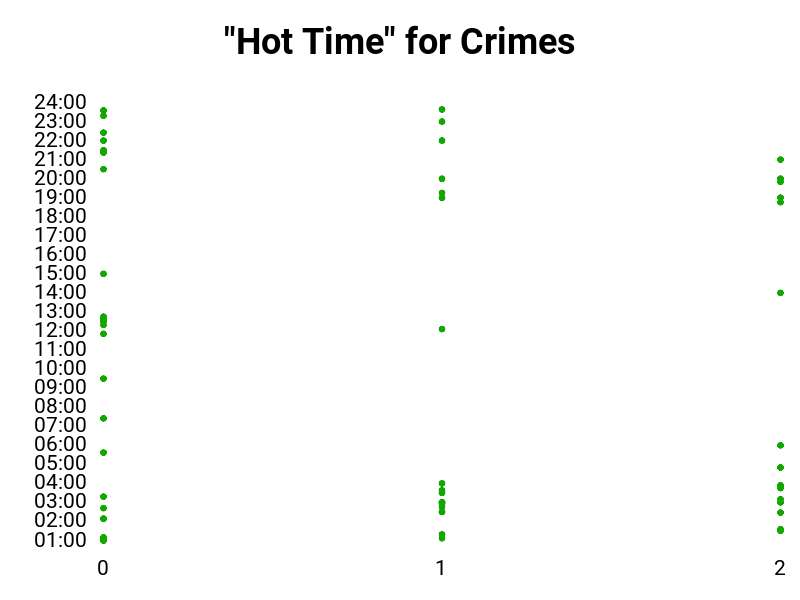
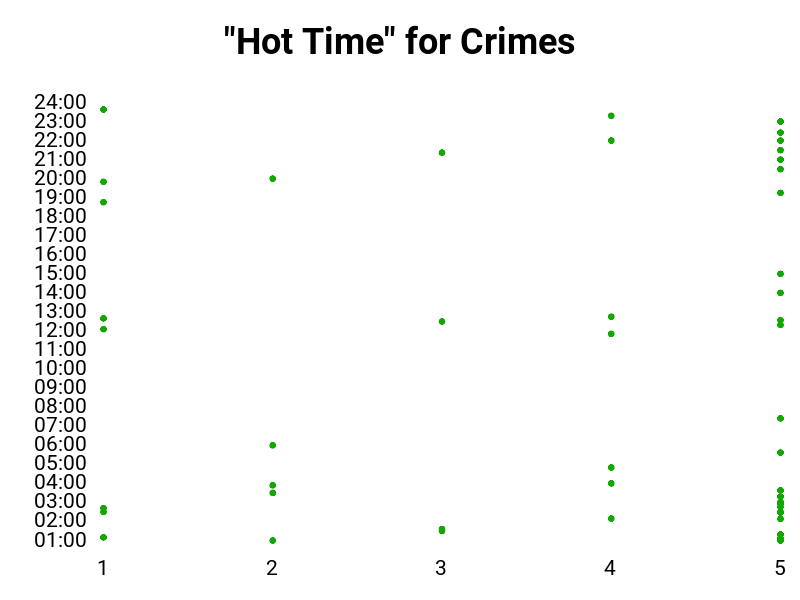
added a count for number of crimes each year

diff --git a/scraper.rb b/scraper.rb
@@ -1,9 +1,17 @@
+require_relative 'notice'
+
 class Scraper
-  attr_reader :number_of_pages, :page_array
+  attr_reader :number_of_pages, :page_array, :all_notices, :years, :crime_per_year
 
   def initialize
     @number_of_pages = 0
+    # keeps track of all page object
     @page_array = []
+    # keeps track of all notice object
+    @all_notices = []
+    # range of years for the data
+    @years = []
+    @crime_per_year = {}
   end
 
   # counts the number of pages
@@ -18,7 +26,33 @@ class Scraper
   def create_link(first_page_link)
     (1..@number_of_pages).each do |i|
       # mechanize each page
-      @page_array << Page.new("#{first_page_link}&page=#{i}")
+      @page_array << Page.new("#{first_page_link}&page=#{i}", @all_notices)
+    end
+  end
+
+  # calls other methods to retrieve all data
+  def collect_data
+    get_all_years
+    get_crimes_per_year
+  end
+
+  # gets all the years that has crime recorded
+  def get_all_years
+    all_notices.each do |notice|
+      # does not push the same year or nil
+      @years << notice.year if !notice.year.nil? & !(@years.include? notice.year)
+    end
+    @years.sort!
+  end
+
+  # counts the number of crimes per year
+  def get_crimes_per_year
+    @years.each do |year|
+      @crime_per_year[year] = 0
+    end
+    all_notices.each do |notice|
+      value = @crime_per_year[notice.year].to_i
+      @crime_per_year[notice.year] = value + 1 if @crime_per_year.key? notice.year
     end
   end
 end

diff --git a/notice.rb b/notice.rb
@@ -11,26 +11,41 @@ class Notice
       @description = i.text if i.text.include?('a.m.') || i.text.include?('p.m.')
     end
 
-    @date = @description[%r{\d+/\d+/\d+}]
+    retrieve_date
     retrieve_year
-    @time = @description[/\d+(:\d+)* (a|p)\.m\./]
+    retrieve_time
     @location = @description.scan(/([0-9A-Za-z]+) (Avenue|St |Ave|Street|Court|Square|Place)/)
-   
 
     # puts '*****'
-    # puts @date
-    # puts @time
+    # puts "#{@date} --- #{@time}"
     # puts @location[0]
     # puts @location[1]
     # puts '*****'
   end
 
+  # retrieve the date of crime
+  def retrieve_date
+    @date = @description[%r{\d+/\d+/\d+}]
+    # checks that the date is not empty
+    @date = nil if @date.to_s.strip.empty?
+  end
+
   # retrieve year from the date
   def retrieve_year
-    temp = @date.to_s.split '/'
-    # @year = 0 if temp[2] is blank/no date
-    @year = temp[2].to_i
-    # prevent addition of 2000 if 0
-    @year += 2000 if !@year.zero? & (@year < 2000)
+    if @date.nil?
+      @year = nil
+    else
+      temp = @date.to_s.split '/'
+      # @year = 0 if temp[2] is blank/no date
+      @year = temp[2].to_i
+      # prevent addition of 2000 if 0
+      @year += 2000 if !@year.zero? & (@year < 2000)
+    end
+  end
+
+  # retrieve the time of crime
+  def retrieve_time
+    @time = @description[/\d+(:\d+)* (a|p)\.m\./]
+    @time = nil if @time.to_s.strip.empty?
   end
 end

diff --git a/graph.rb b/graph.rb
@@ -9,9 +9,9 @@ class Graph
     @y = []
   end
 
-  def create_scatterplot(page_array, graph)
+  def create_scatterplot(graph, scrape)
     @scatter_graph = Gruff::Scatter.new
-    get_data_points(page_array, graph)
+    get_data_points(graph, scrape)
     set_graph_properties
     @scatter_graph.data('crime time', @x, @y)
   end
@@ -84,18 +84,21 @@ class Graph
   end
 
   # sets the x & y for the graph
-  def get_data_points(page_array, graph)
-    @year = []
-    page_array.each do |page|
-      page.notices.each do |notice|
-        # checks if time is string with all white spaces
-        @y << graph.set_time(notice.time) unless notice.time.to_s.strip.empty?
-        # does not add the same year
-        @year << notice.year if (notice.year != 0) & !(@year.include? notice.year)
-      end
+  def get_data_points(graph, scrape)
+    scrape.all_notices.each do |notice|
+      # checks if time is string with all white spaces
+      # checks if there is a date
+      @y << graph.set_time(notice.time) if !notice.date.nil? && !notice.time.nil?
     end
-    @year = @year.sort
-    @x = (1..@y.length).map { rand(3) }
+    # let the oldest data be at front
+    @y.reverse!
+
+    # creates a range of x-value with an incremenet of 1
+    value = 1
+    scrape.crime_per_year.each_value do |count|
+      count.times { @x << value }
+      value += 1
+    end
   end
 end
 

diff --git a/page.rb b/page.rb
@@ -1,14 +1,13 @@
 # class for page object
 class Page
-  attr_reader :page, :title, :notice_links, :notices
+  attr_reader :page, :title, :notice_links
 
-  def initialize(page_link)
+  def initialize(page_link, all_notices)
     @page = Mechanize.new.get page_link
     @title = @page.css("div[class='field__items']")
     @notice_links = []
     create_notice_links
-    @notices = []
-    create_notice
+    create_notice all_notices
   end
 
   # gets the links for the notices
@@ -21,9 +20,9 @@ class Page
   end
 
   # gets all the notices from the page to retrieve data from
-  def create_notice
+  def create_notice(all_notices)
     @notice_links.each do |link|
-      @notices << (Notice.new link)
+      all_notices << (Notice.new link)
     end
   end
 end

diff --git a/main.rb b/main.rb
@@ -14,14 +14,15 @@ link = 'https://dps.osu.edu/news?tag%5B15%5D=15'
 
 scrape = Scraper.new
 # mechanize first page to start retriving data from website
-scrape.page_array << Page.new(link)
+scrape.page_array << Page.new(link, scrape.all_notices)
 # create notice for each page
 scrape.get_num_of_pages(scrape.page_array[0].page)
 scrape.create_link(link)
+scrape.collect_data
 
 # Graph for displaying crime time - creates a png of the graph
 puts 'Creating Graph...'
 crime_time_graph = Graph.new
-crime_time_graph.create_scatterplot scrape.page_array, crime_time_graph
+crime_time_graph.create_scatterplot crime_time_graph, scrape
 crime_time_graph.scatter_graph.write('crime_time.png')
 puts 'Graph has been created.'
